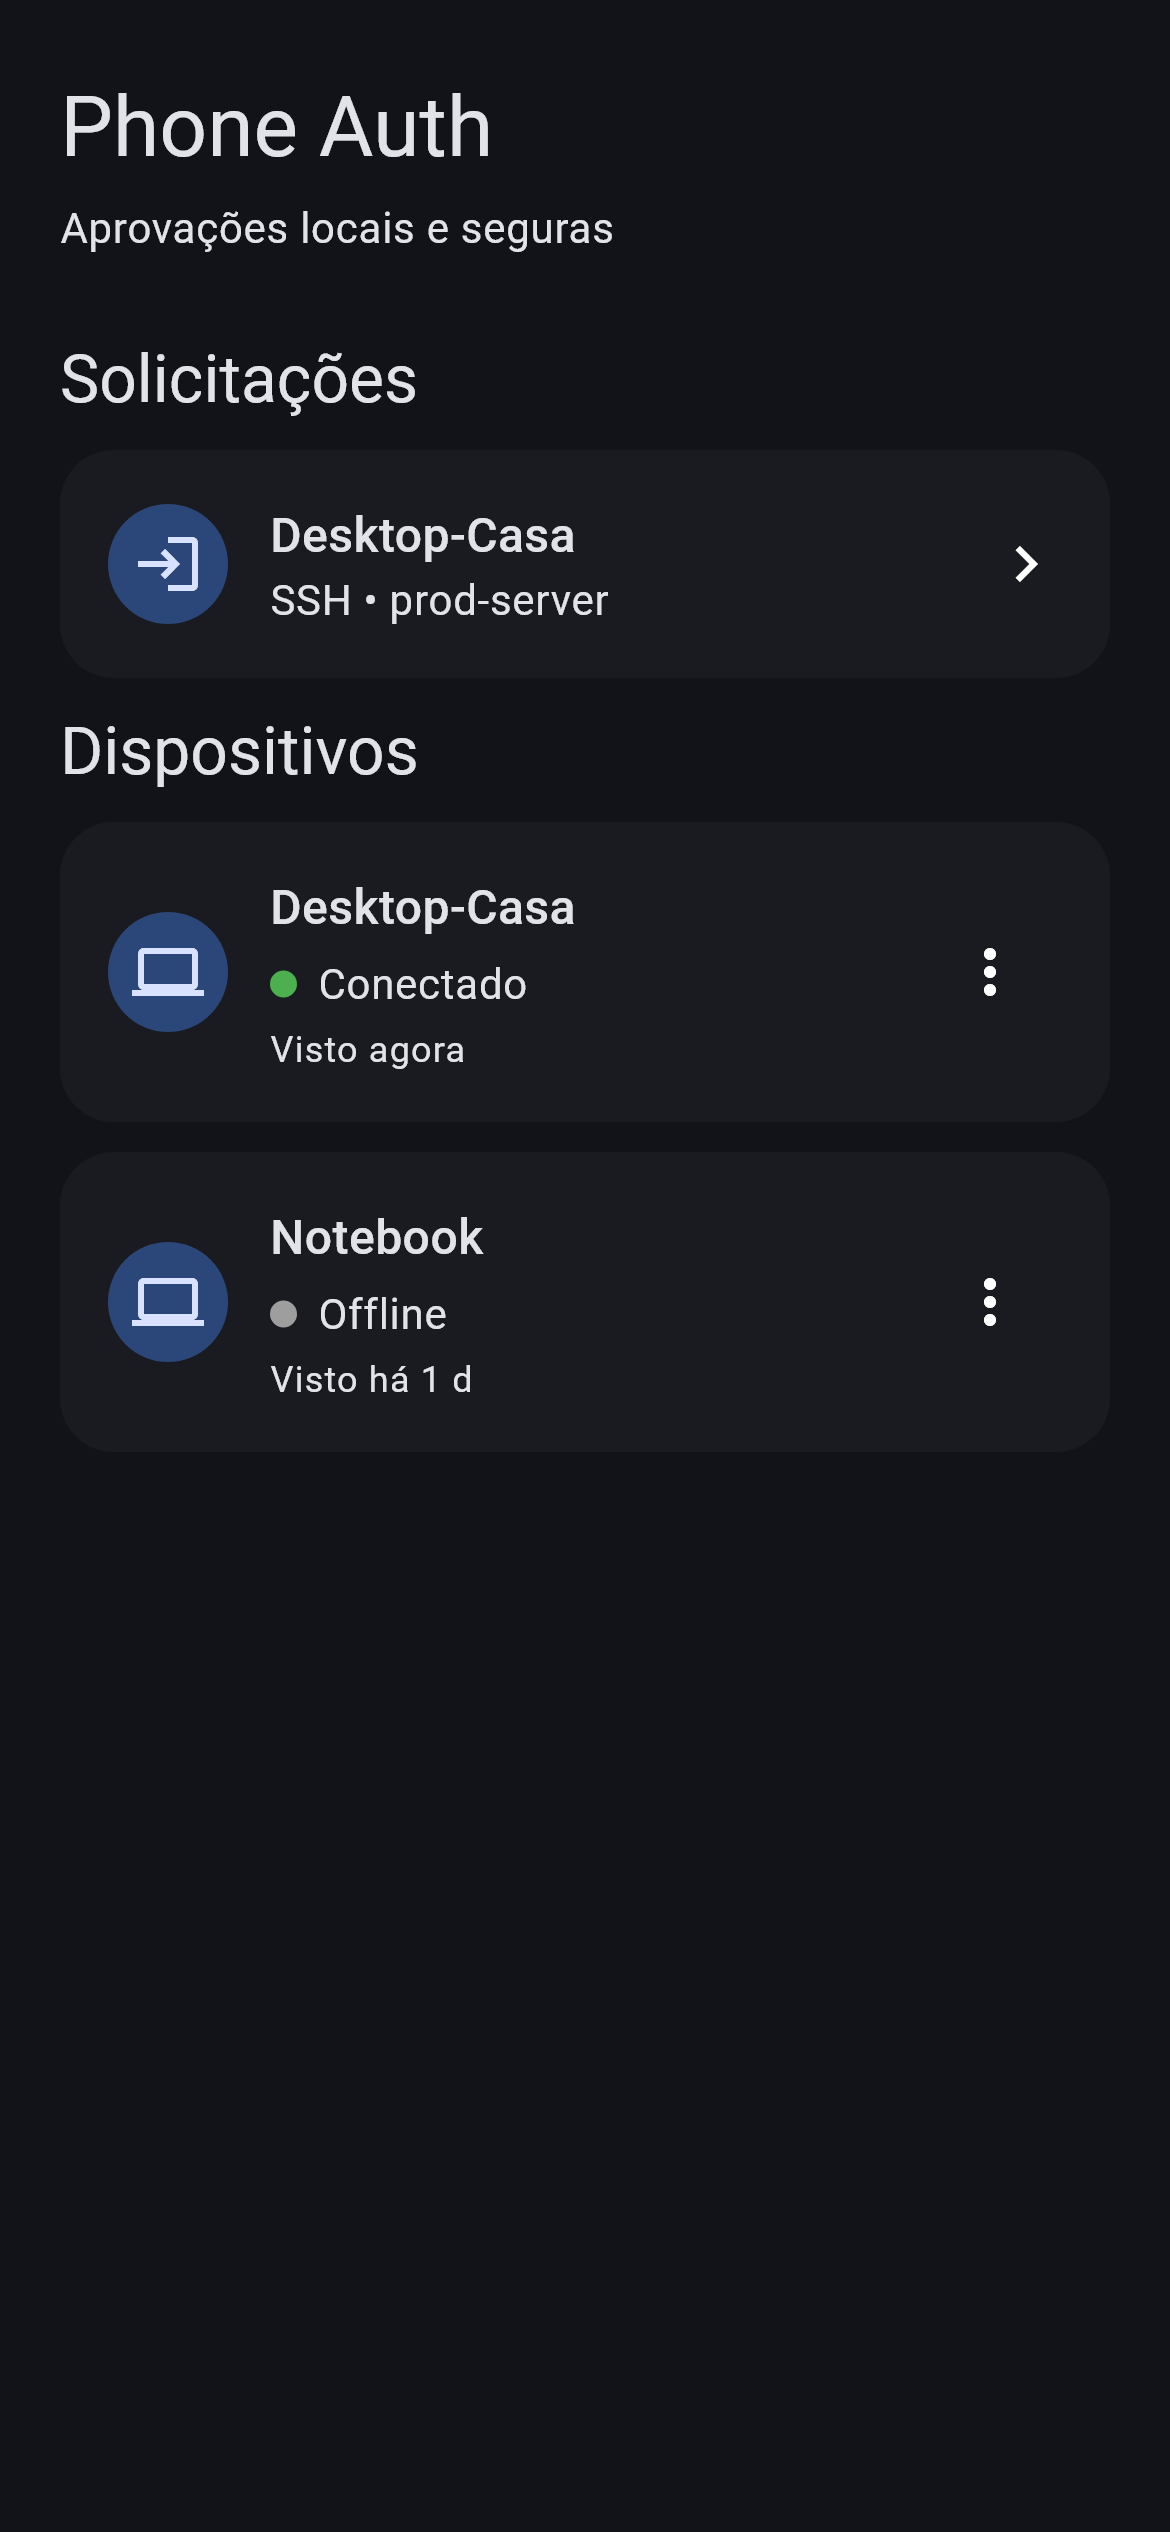
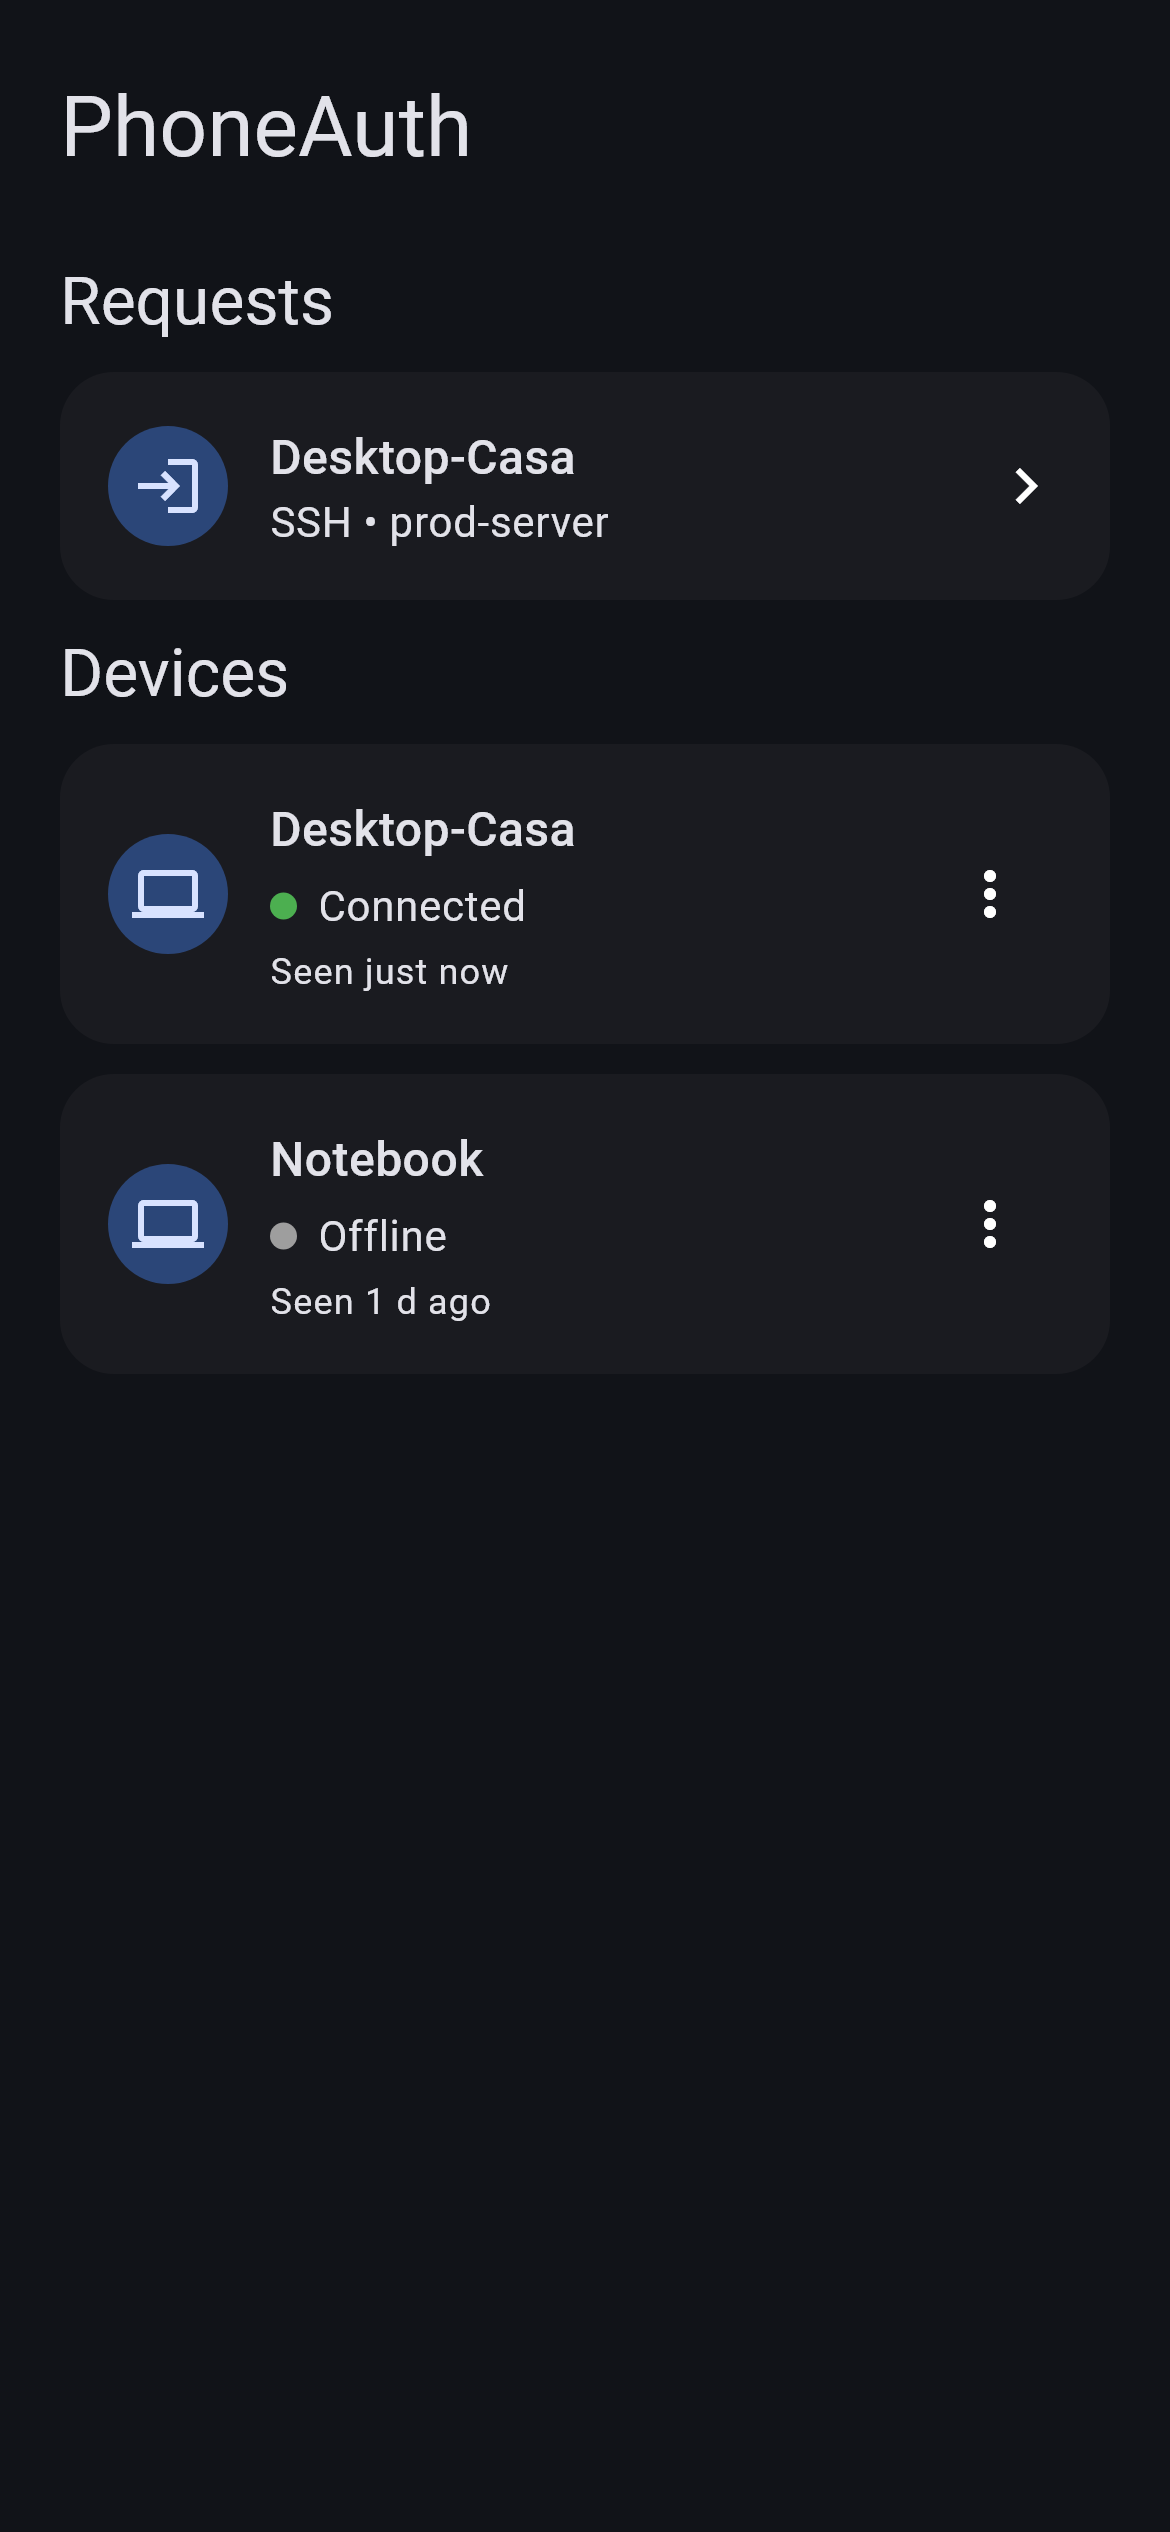
Retake the pictures in the README, in English
The screens changed language, so the pictures of them are stale. Same
capture, same frames, same animation -- `flutter test
test/media/capture_screens.dart` followed by `dart run
tool/build_flow_gif.dart`, which is what those two are for.

The capture now pins `Locale('en')` and carries the delegates rather
than falling through to the default. It read English either way, by
falling back, but by accident: whichever locale the machine running the
capture happened to have would otherwise decide what the README shows.

The README text is untouched.

diff --git a/mobile/test/media/capture_screens.dart b/mobile/test/media/capture_screens.dart
@@ -25,7 +25,9 @@ import 'package:flutter_riverpod/flutter_riverpod.dart';
 import 'package:flutter_test/flutter_test.dart';
 import 'package:phone_auth/app/app_controller.dart';
 import 'package:phone_auth/app/config.dart';
+import 'package:flutter_localizations/flutter_localizations.dart';
 import 'package:phone_auth/app/theme.dart';
+import 'package:phone_auth/l10n/app_strings.dart';
 import 'package:phone_auth/core/mock/fake_phone_authenticator.dart';
 import 'package:phone_auth/core/mock/mock_seed.dart';
 import 'package:phone_auth/domain/authentication_request.dart';
@@ -193,6 +195,15 @@ Future<_Scene> _open(
       container: container,
       child: MaterialApp(
         debugShowCheckedModeBanner: false,
+        // Pinned, not inherited. The README is in English and so are the
+        // pictures in it; a capture that followed whatever locale the machine
+        // running it happened to have would change the images by accident.
+        locale: const Locale('en'),
+        supportedLocales: AppStrings.supportedLocales,
+        localizationsDelegates: const [
+          AppStrings.delegate,
+          ...GlobalMaterialLocalizations.delegates,
+        ],
         theme: buildTheme(brightness),
         home: RepaintBoundary(key: _captureKey, child: child),
       ),
